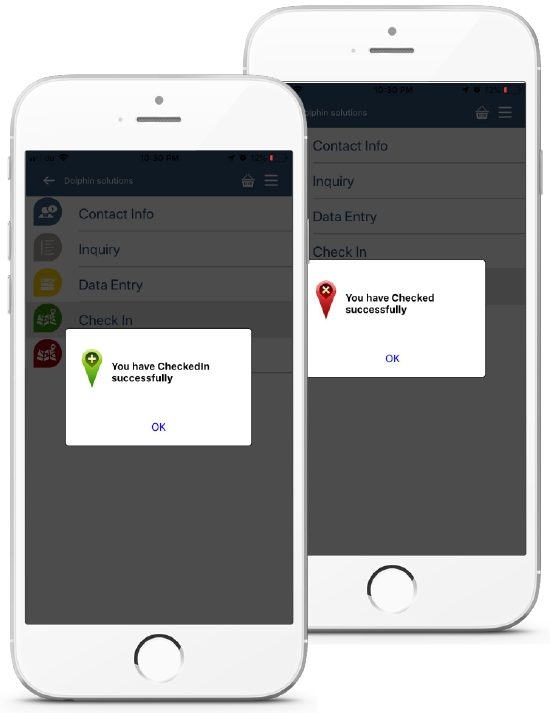
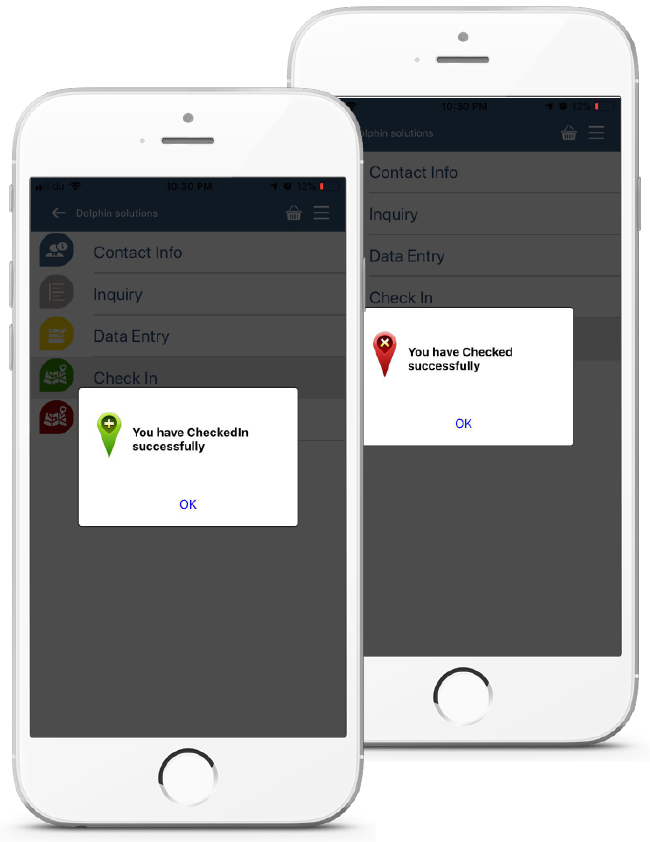
phone images

diff --git a/selldor-webpagecampaign.html b/selldor-webpagecampaign.html
@@ -78,11 +78,11 @@
         }
 
         .txt-color-blue {
-            color: #0670B2;
+            color: #005f97;
         }
 
         .subheader-top {
-            background-color: #0670B2;
+            background-color: #005f97;
             color: #ffffff;
             padding-top: 20px;
             padding-bottom: 20px;
@@ -90,7 +90,7 @@
         }
 
         .detail-header h3 {
-            color: #0670B2;
+            color: #005f97;
             padding-top: 20px;
             padding-bottom: 20px;
             text-align: center;
@@ -150,7 +150,7 @@
 
         .detail-content-2 {
             position: relative;
-            background-color: #0670B2;
+            background-color: #005f97;
             color: #ffffff;
         }
 
@@ -408,7 +408,7 @@
                                     speed up your ordering flow... <br/>whilst on the road!</span></h3>
                         </div>
                         <div class="col-xs-12 col-sm-6">
-                            <img src="http://remoteapp.softwaredesign.ae/EmailTemplateImages/SellDor/images/iPhone1.png">
+                            <img src="https://raw.githubusercontent.com/bienjerico/emailcampaign/master/images/selldor_v20_iphone_1.png">
                         </div>
                     </div>
                     <div class="container visible-lg">
@@ -418,7 +418,7 @@
                                     speed up your ordering flow... <br/>whilst on the road!</span></h3>
                         </div>
                         <div class="col-lg-6">
-                            <img src="http://remoteapp.softwaredesign.ae/EmailTemplateImages/SellDor/images/iPhone1.png">
+                            <img src="https://raw.githubusercontent.com/bienjerico/emailcampaign/master/images/selldor_v20_iphone_1.png">
                         </div>
                     </div>
                 </div>
@@ -466,7 +466,7 @@
                     </div>
                 </div>
                 <div class="col-xs-12 col-md-6 detail-img-1">
-                    <img src="http://remoteapp.softwaredesign.ae/EmailTemplateImages/SellDor/images/iPhone2.png">
+                    <img src="https://raw.githubusercontent.com/bienjerico/emailcampaign/master/images/selldor_v20_iphone_2.png">
                 </div>
             </div>
         </div>
